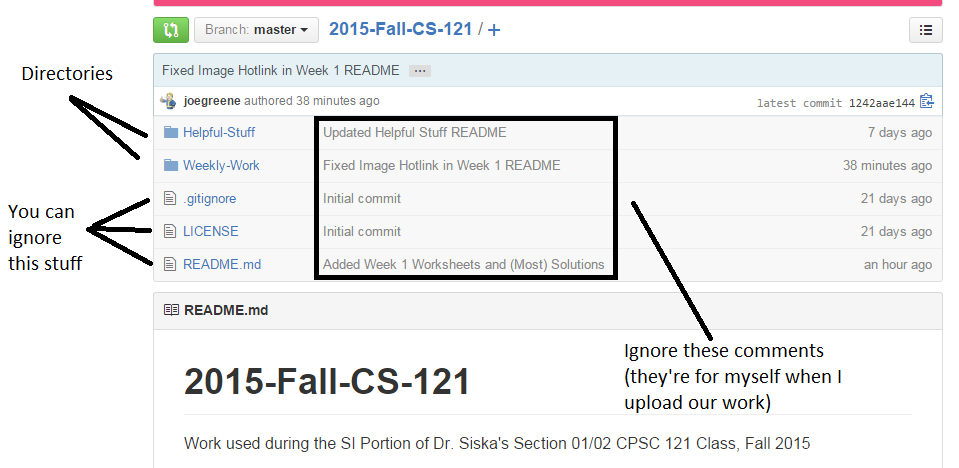
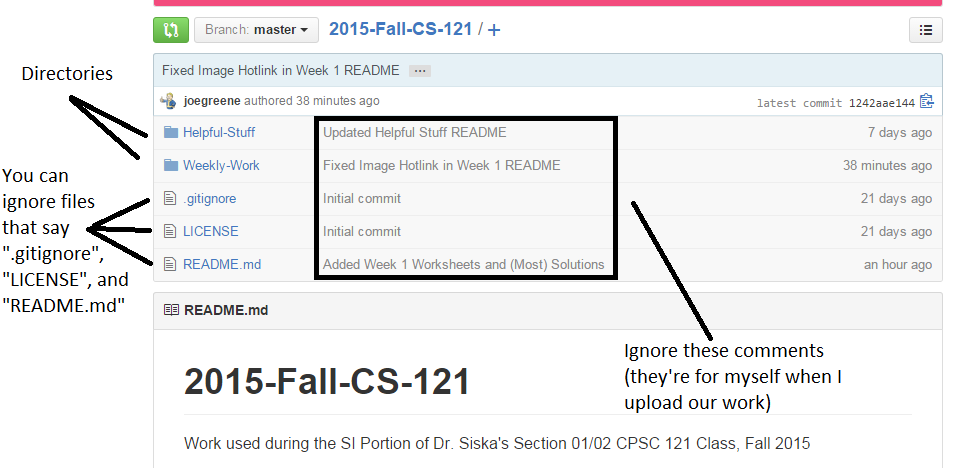
Made slight revisions to main page and week 1 solns
Added specificity to the file-loc-help image, rewrote a few lines in the
main page readme, and reworded and highlighted a section of the week 1,
part two solutions.

Changed region(s): [[0.0, 0.4188, 0.1512, 0.688], [0.0, 0.359, 0.0907, 0.3889]]

diff --git a/README.md b/README.md
@@ -18,9 +18,9 @@ __Meeting Times__: (if asked to sign-in at the door tell them you're going to my
 
 __Extra Information__:
 - If you need to contact me my email is located at the bottom of this page (and all other pages in this repository). 
-- I can also be contacted after class (I normally sit in the back). 
+- I can also be contacted after class (I sit in the back). 
 - You can ask me any questions about the course as long as they are not homework related.
-- Most (if not all) updates to this repository are done between Thursday evening and Friday evening. 
+- All updates to this repository are done between Thursday evening and Friday night. 
   - The best time to check for updates is either midday Friday (or if I'm really lagging, Saturday).
 
 I look forward to working with you guys this semester!
